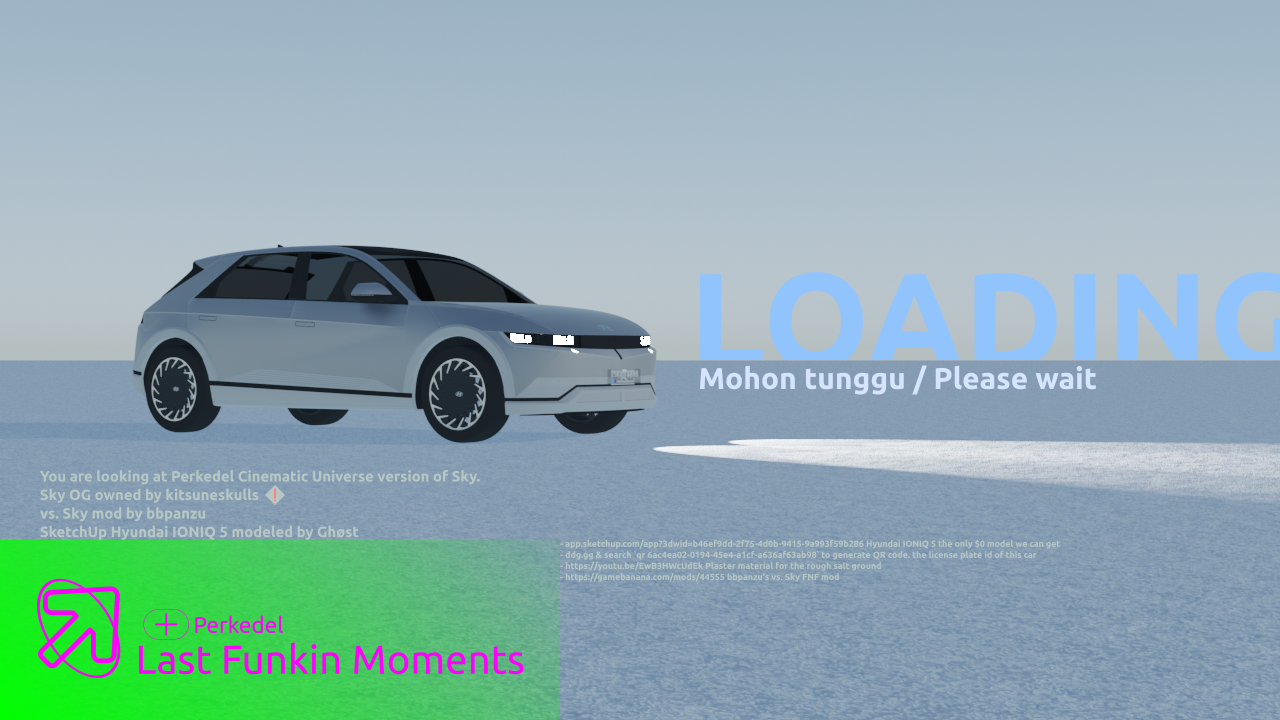
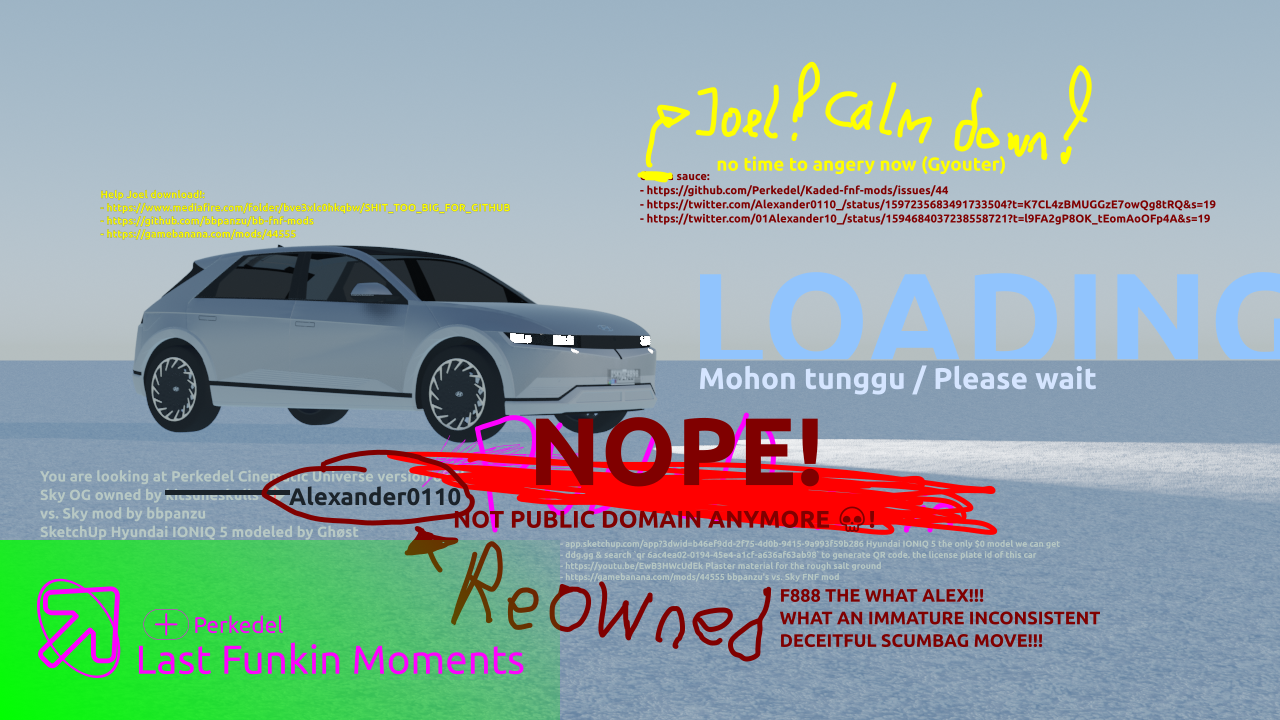
Okay, we got covered some enough [skip ci]
https://github.com/Perkedel/Kaded-fnf-mods/issues/38
We will cover more songs later

https://github.com/Perkedel/Kaded-fnf-mods/issues/44
We overveer the plan a bit but you should
get the idea

Changed region(s): [[0.125, 0.5806, 0.8438, 0.9167], [0.5, 0.0917, 0.9688, 0.3361], [0.0625, 0.2444, 0.4062, 0.3361]]

diff --git a/CREDIT.md b/CREDIT.md
@@ -231,7 +231,7 @@ Hey, am I allowed to relicense? I was meant to just license part of my mods that
 - https://api.haxeflixel.com/flixel/ui/FlxDPadMode.html dpad mode for the virtual pad
 - https://snippets.haxeflixel.com/input/keyboard/ keyboard how to
 - https://snippets.haxeflixel.com/input/ what input examples
-- https://gamebanana.com/threads/219778 avoid reuploading sky mod for the time being. I think, that's indefinite. Oh, speaking of browsing Git commit history, that's what I did. I turn back to time, right before the removal of Sky mod, and take everything Sky as all as I can. Assets, Codes, Projects, everything I know it would have one. May come back later if I missed anything. ssssshh, don't tell bbpanzu! if he know this he'll turn back in time and force push this alternate timeline like if Sky never been existed. wait a minute. uh oh! peck!
+- https://gamebanana.com/threads/219778 ~~avoid reuploading sky mod for the time being. I think, that's indefinite. Oh, speaking of browsing Git commit history, that's what I did. I turn back to time, right before the removal of Sky mod, and take everything Sky as all as I can. Assets, Codes, Projects, everything I know it would have one. May come back later if I missed anything. ssssshh, don't tell bbpanzu! if he know this he'll turn back in time and force push this alternate timeline like if Sky never been existed. wait a minute. uh oh! peck!~~ resolved
 - https://youtu.be/7awd-y_DTQY PEAR & https://twitter.com/gothmei/status/1309307834677571585 gothmei. peck, the tweet is gone. there is no preservation in twitter after all. We lost the little pogchamp voice. oh wait, PEAR still has it!
 - https://haxeflixel.com/documentation/flxtween/ how to tween
 - https://youtu.be/u1DKR9cOxnM Funkin modder direct trailer 
@@ -404,6 +404,11 @@ Hey, am I allowed to relicense? I was meant to just license part of my mods that
     > WHO CARES..
     > PUT IT ALL IN MY MOUT.
 - tebarek
+- Sky public domain but then cancel public domain 💀
+- https://github.com/Perkedel/Kaded-fnf-mods/issues/44 
+- https://twitter.com/Alexander0110_/status/1597235683491733504?t=K7CL4zBMUGGzE7owQg8tRQ&s=19
+- https://twitter.com/01Alexander10_/status/1594684037238558721?t=l9FA2gP8OK_tEomAoOFp4A&s=19
+- the KPOP TV show has lyric!
 
 
 
